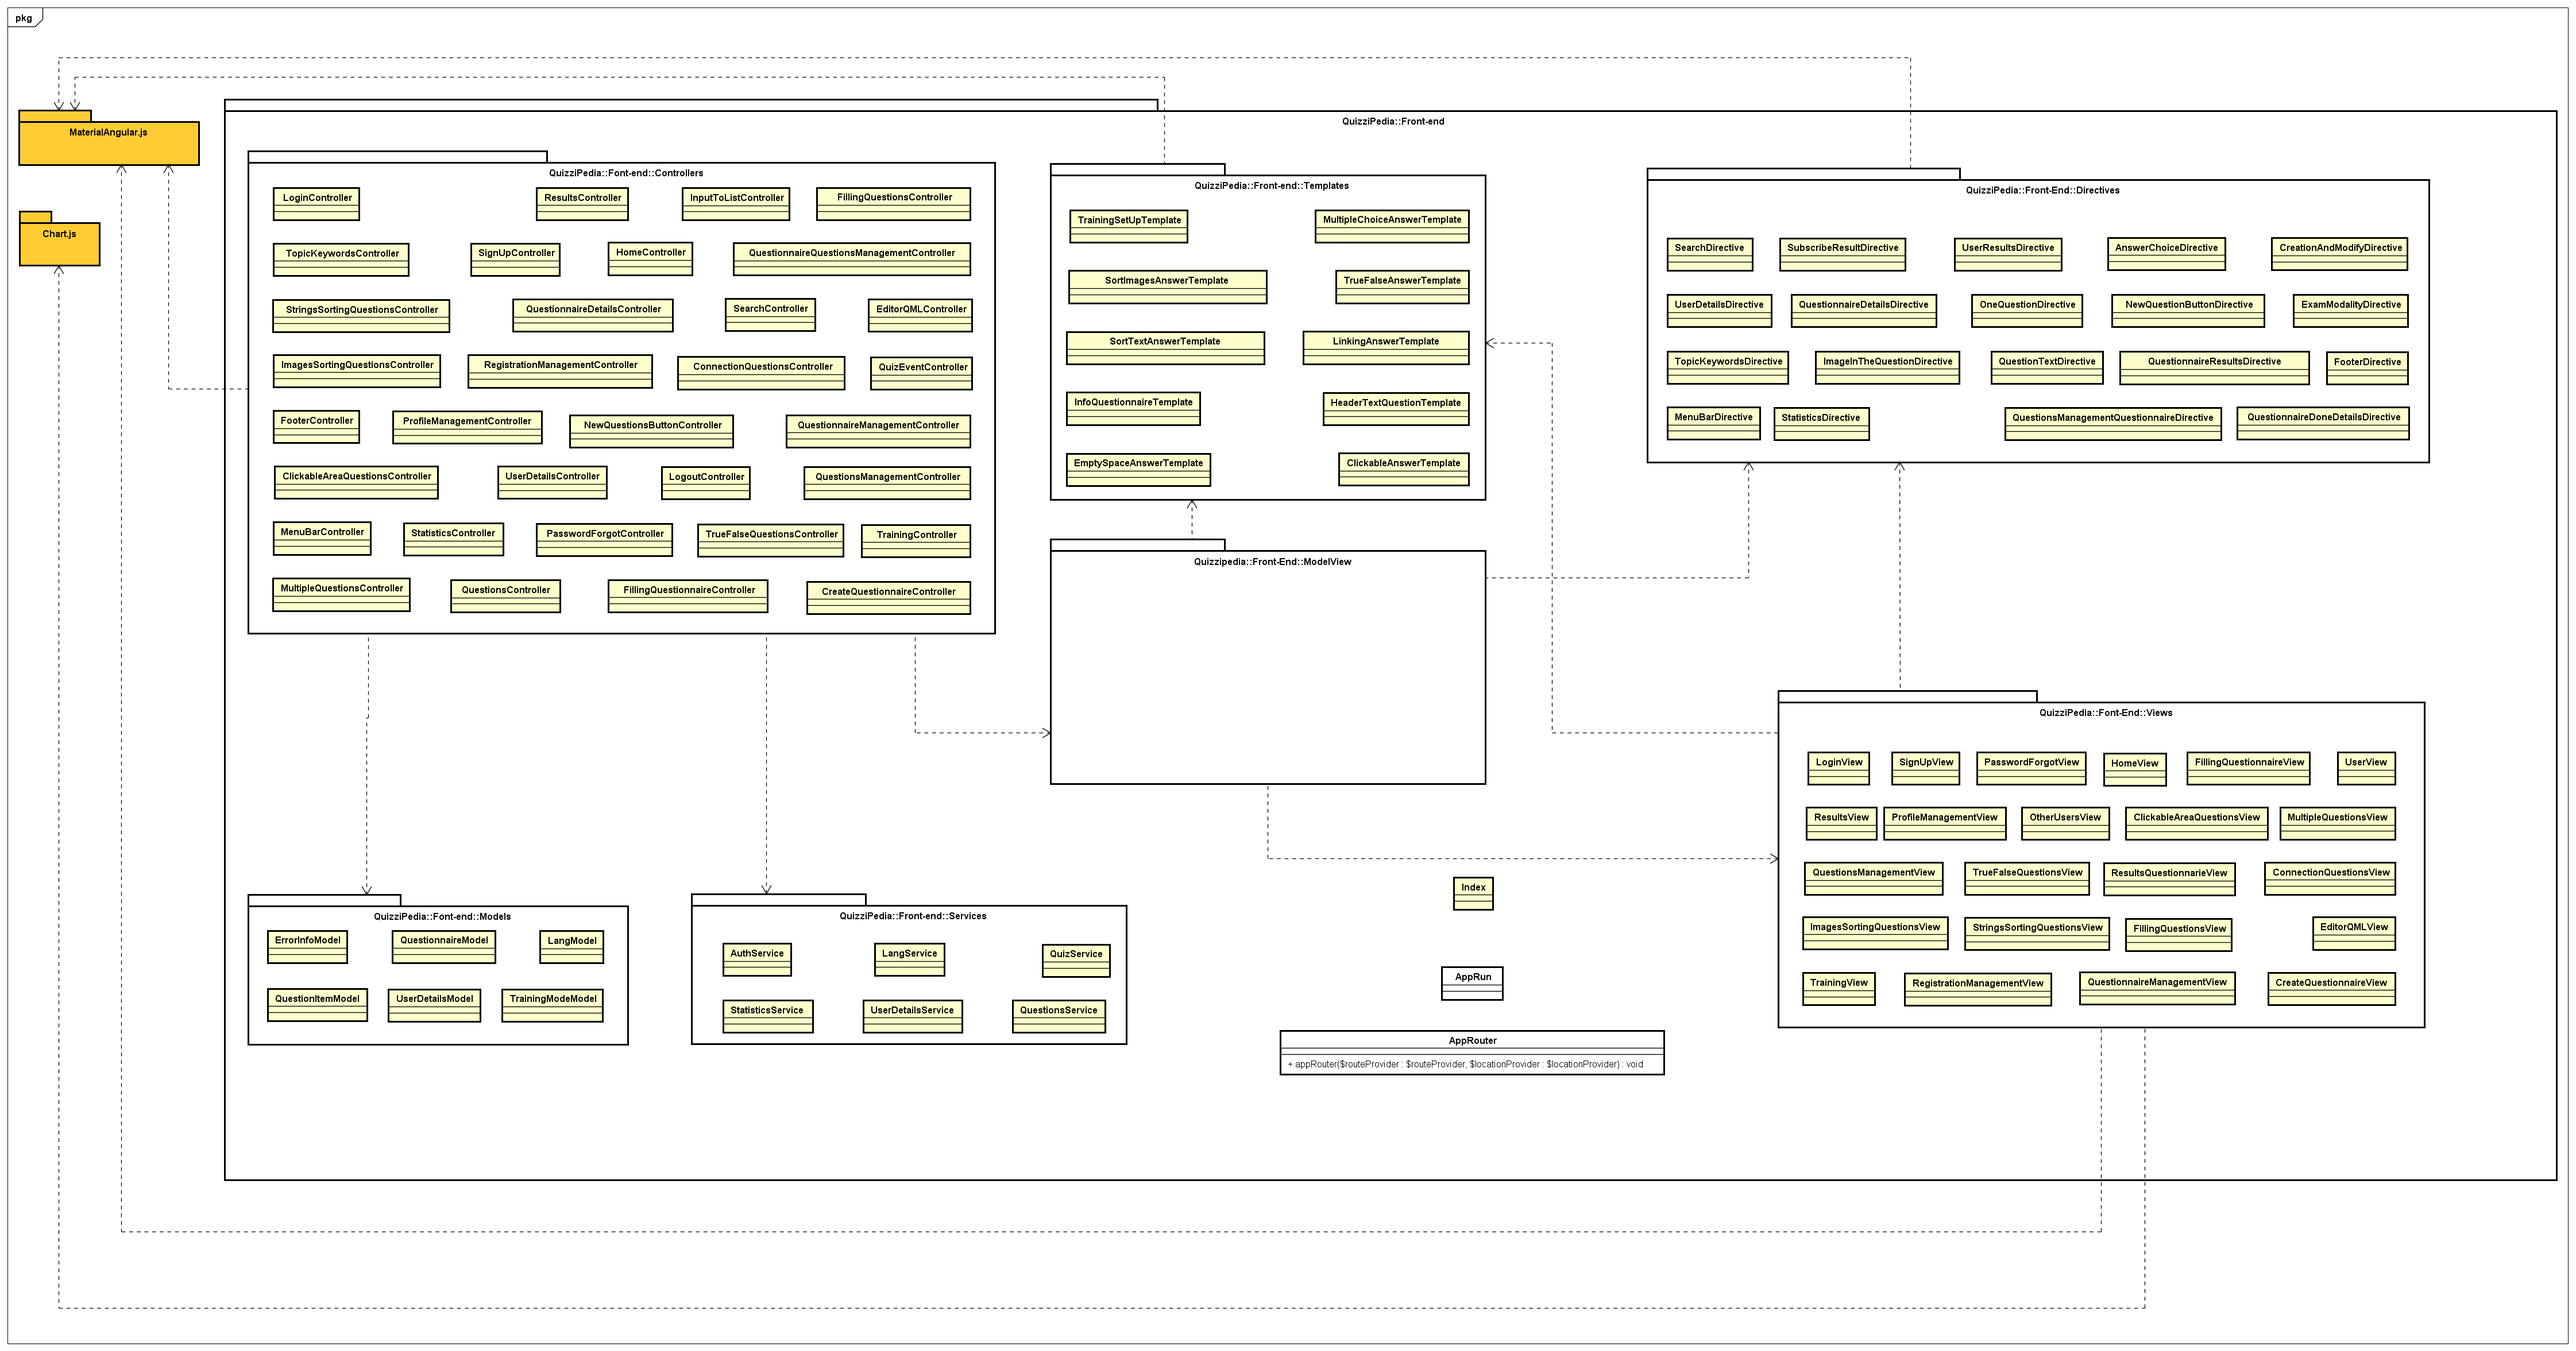
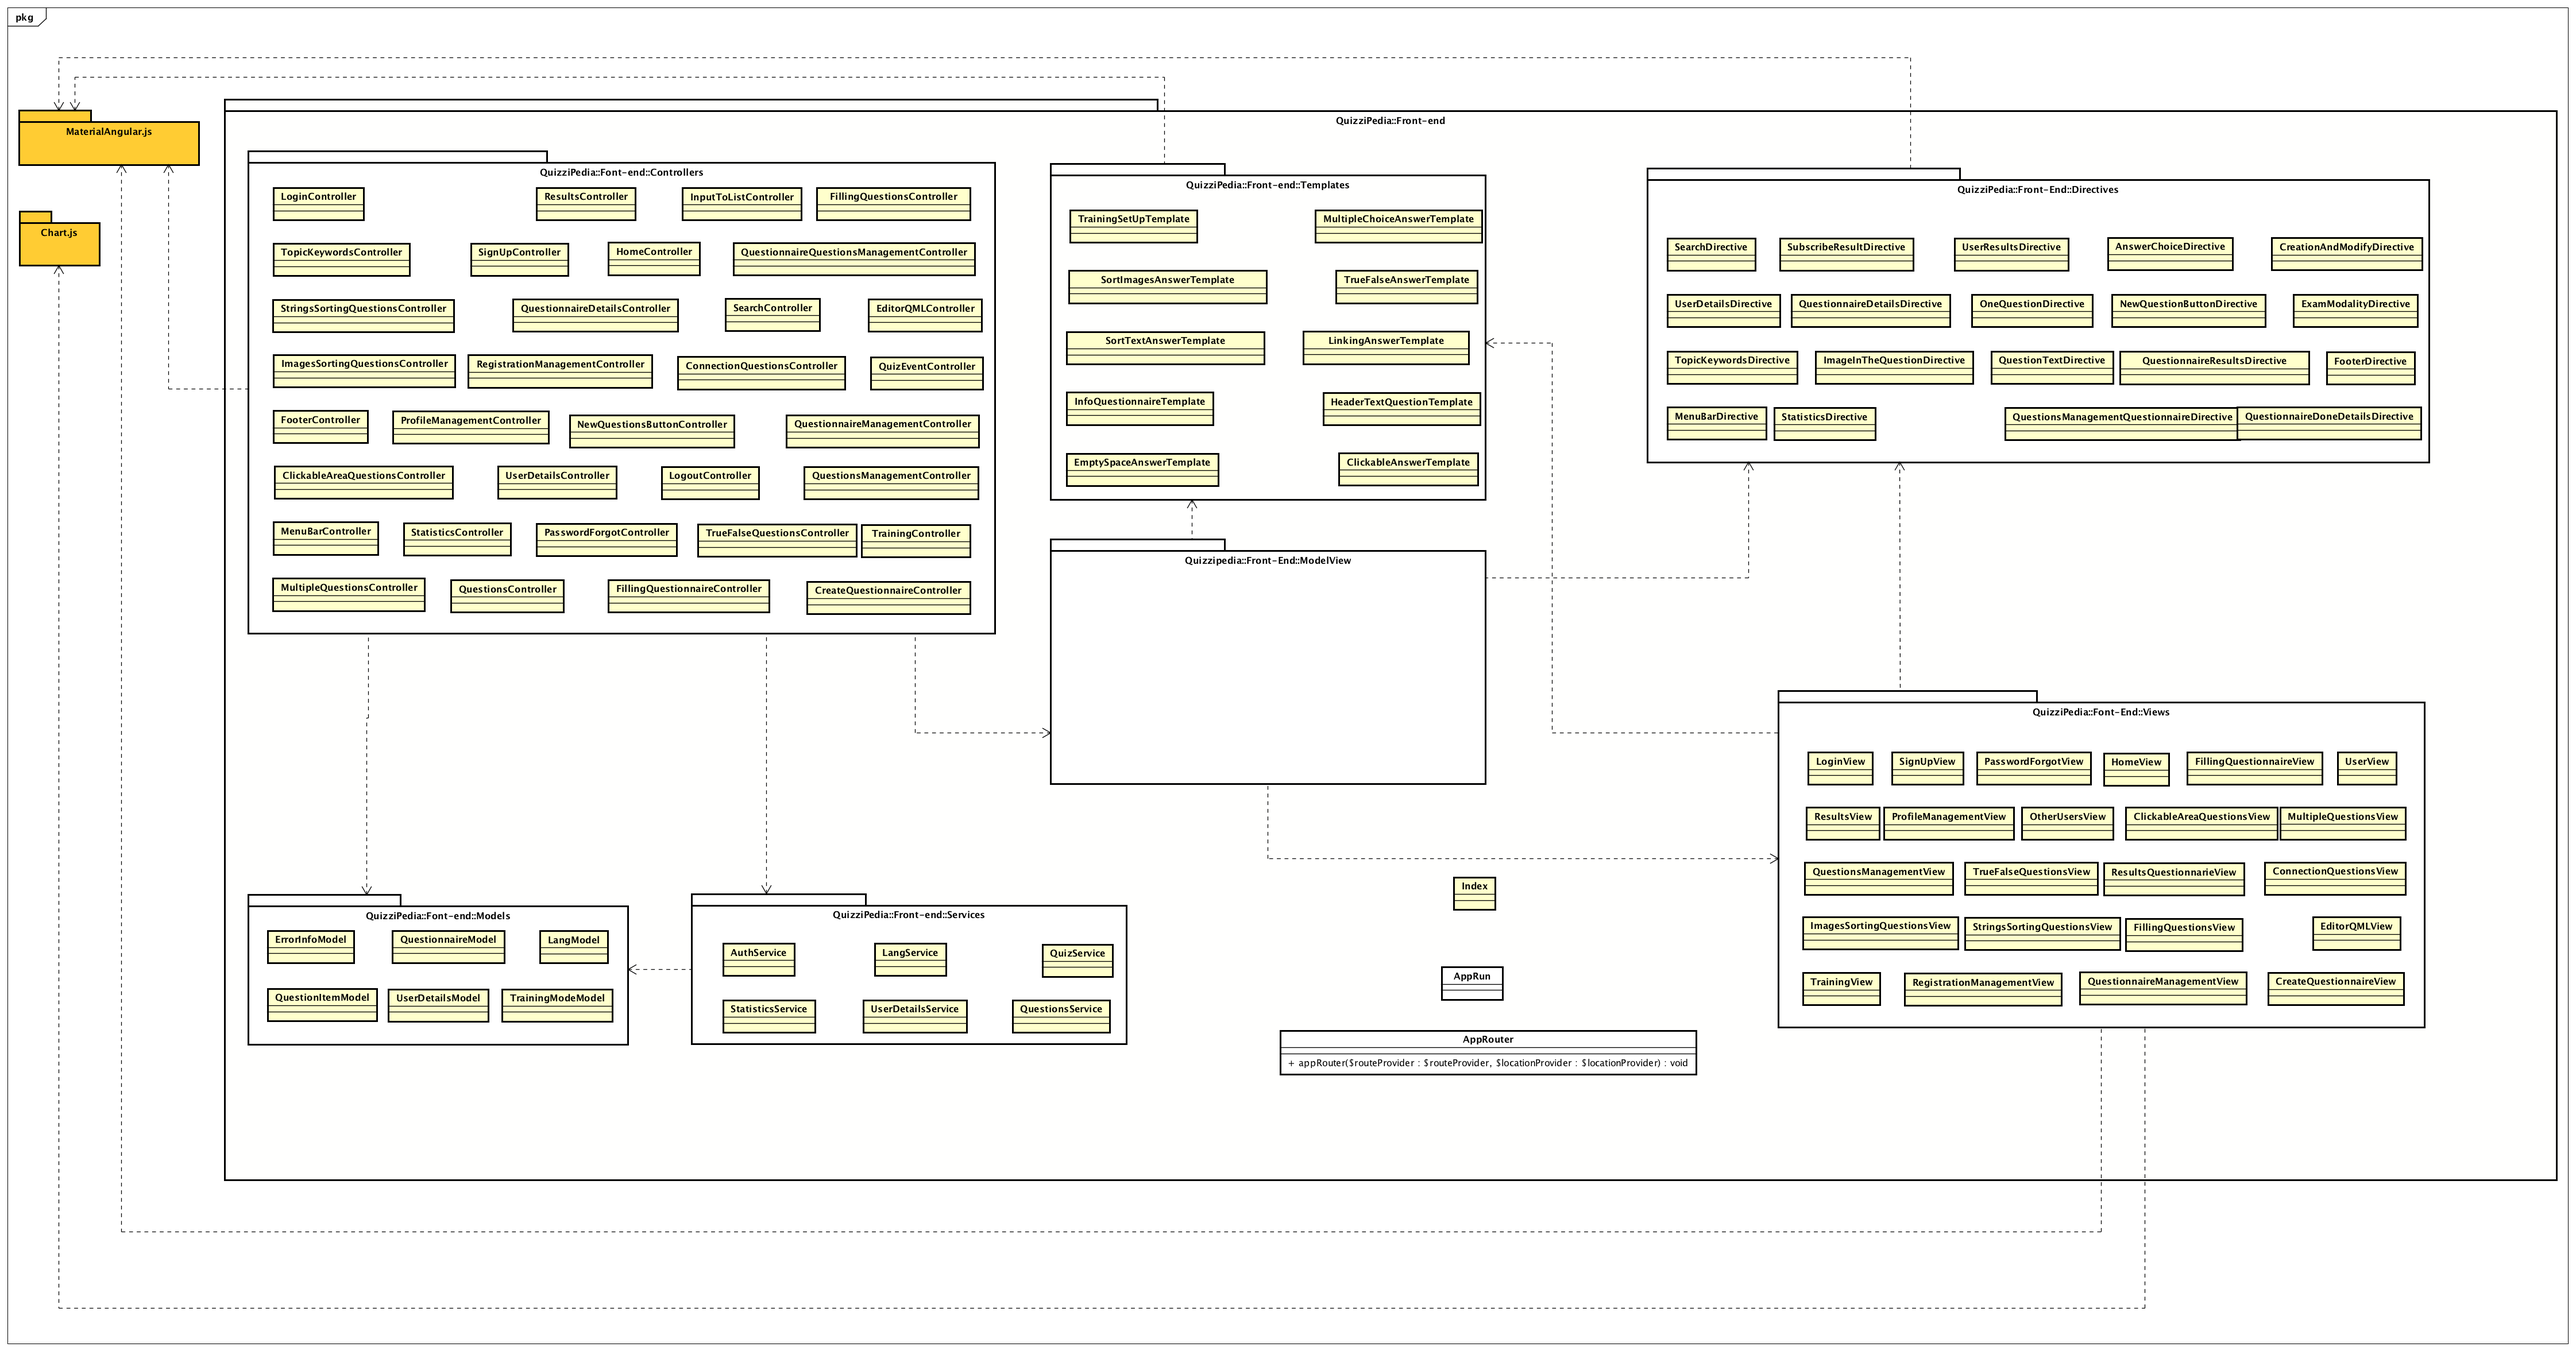
Update Services e complete front-end

diff --git a/RP/DefinizioneDiProdotto/sezioni/Front-End/QuizziPedia_Front-End_Services.tex b/RP/DefinizioneDiProdotto/sezioni/Front-End/QuizziPedia_Front-End_Services.tex
@@ -137,6 +137,8 @@
 	\item \textbf{Utilizzo}: fornisce le funzionalità per ottenere i dati di un quiz in seguito ad una ricerca dell'utente, passando i risultati ai controllers. Ritorna dei riferimenti alle domande del quiz;
 	\item \textbf{Relazione con altre classi:}
 	\begin{itemize}
+		\item \textit{IN} \texttt{QuestionnaireModel}: rappresenta un questionario. Contiene tutte le informazioni necessarie alla
+		presentazione del contenuto del questionario; 
 		\item \textit{OUT} \texttt{SearchController}: questa classe permette di gestire la ricerca di questionari e utenti all'interno dell'applicazione;
 		\item \textit{OUT} \texttt{QuestionsController}: questa classe permette di gestire il recupero delle domande per poterle stampare nella modalità allenamento;
 		\item \textit{OUT} \texttt{QuestionnaireDetailsController}: questa classe permette di gestire i dettagli di un questionario;
@@ -236,6 +238,8 @@
 	\item \textbf{Utilizzo}: utilizzata per richiedere domande presenti nel database. Offre inoltre delle funzionalità per inserire nuove domande;
 	\item \textbf{Relazione con altre classi:}
 	\begin{itemize}
+		\item \textit{IN} \texttt{QuestionItemModel}: rappresenta una domanda. Contiene tutte le informazioni necessarie alla
+		presentazione del contenuto della domanda; 
 		\item \textit{IN} \texttt{TrueFalseQuestionsController}: questa classe permette di gestire la creazione e la modifica di una domanda vero/falso;
 		\item \textit{IN} \texttt{MultiplyQuestionsController}: questa classe permette di gestire la creazione e la modifica di una domanda a risposta multipla; 
 		\item \textit{IN} \texttt{ConnectionQuestionsController}: questa classe permette di gestire la creazione e la modifica di una domanda a collegamento;
@@ -290,6 +294,8 @@
 	\item \textbf{Utilizzo}: utilizzata per ottenere i dati personali di un utente. Permette inoltre di trovare i dati di utenti ricercati tramite l'apposita barra di ricerca;
 	\item \textbf{Relazione con altre classi}:
 	\begin{itemize}
+		\item \textit{IN} \texttt{UserDetailsModel}: rappresenta un utente. Contiene tutte le informazioni necessarie alla
+		presentazione del contenuto di un utente sia nella visualizzazione che nella gestione di un profilo; 
 		\item \textit{OUT} \texttt{SearchController}: questa classe permette di gestire la ricerca di questionari e utenti all'interno dell'applicazione;
 		\item \textit{OUT} \texttt{UserDetailsController}: questa classe permette di gestire i dati di un utente;
 		\item \textit{OUT} \texttt{ProfileManagementController}: questa classe permette di gestire il profilo personale di un utente. 
